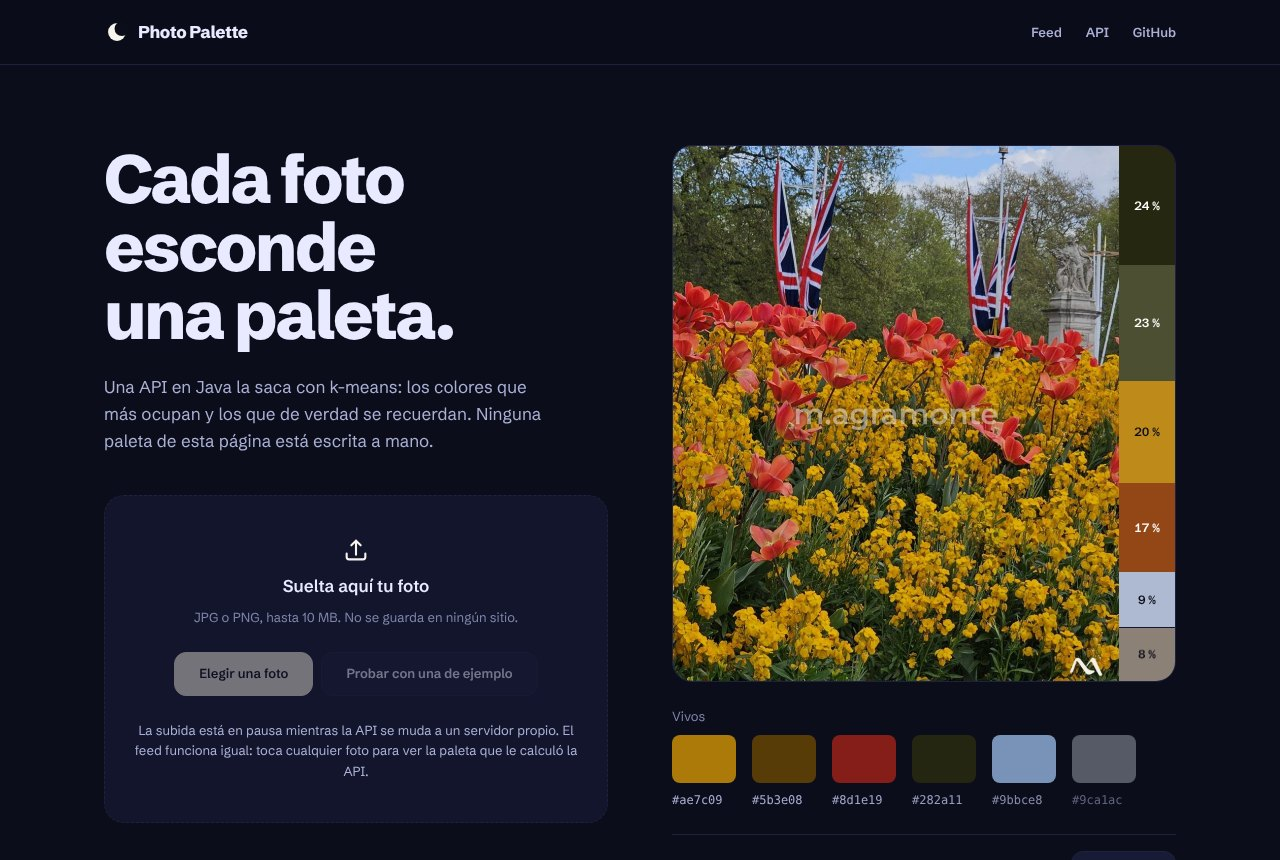
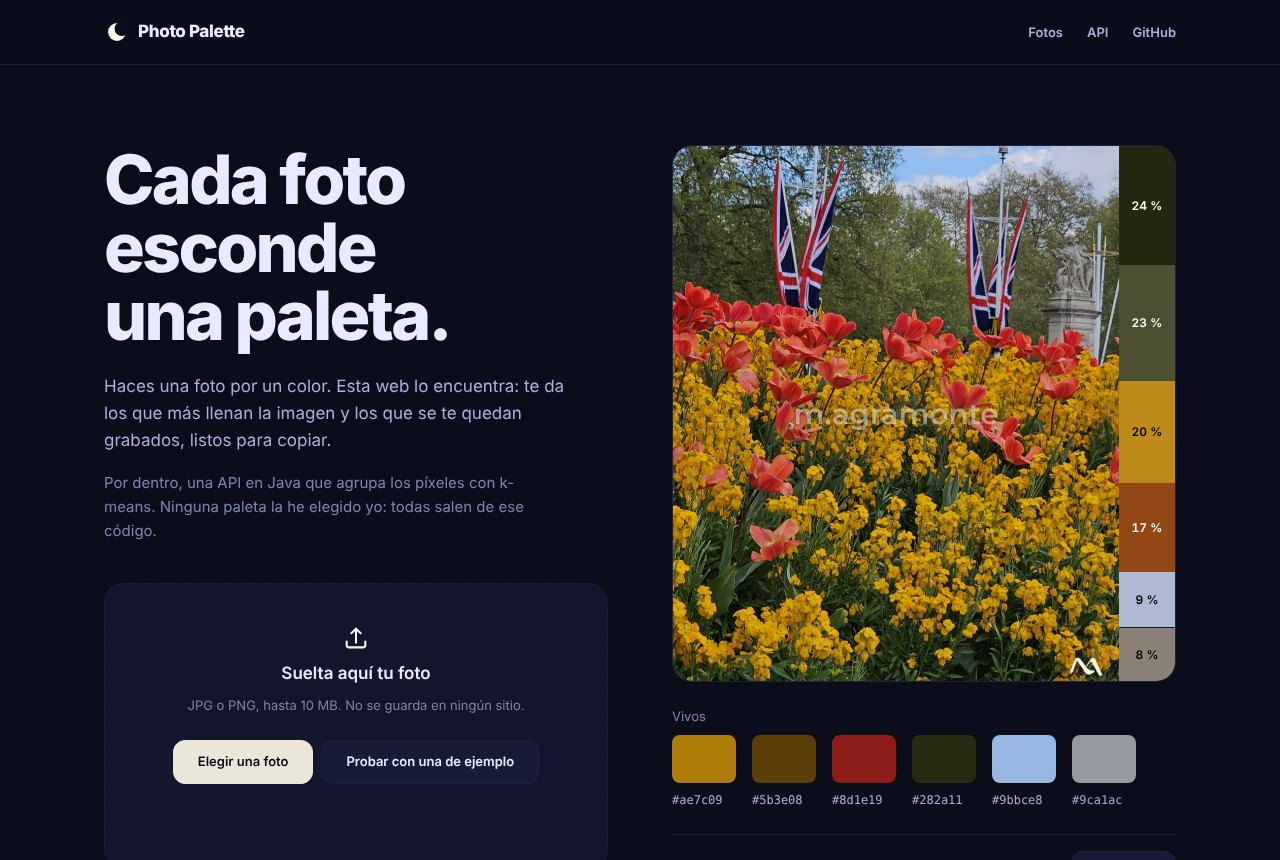
Capturas nuevas y README al día con los textos de la web
Las seis capturas de docs/capturas enseñaban la web de antes: el texto
técnico en la portada, la subida en pausa y «El feed». Las he rehecho con
la web de esta rama y la API simulada en el navegador, como en las E2E.

Los dos README cuentan en «Qué hace» que la web se entiende sin programar
y lo del botón del móvil. En CAPTURAS.md fuera la nota de la subida en
pausa, que ya no es verdad, y los textos alternativos dicen lo que se ve
ahora.

diff --git a/docs/CAPTURAS.md b/docs/CAPTURAS.md
@@ -1,7 +1,9 @@
 # Capturas
 
 La web pantalla a pantalla, para quien prefiera no pulsar nada. Todas son de la aplicación
-real, con las paletas que calcula la API sobre las fotos del feed.
+real, con las paletas que calcula la API sobre las fotos del feed. Se hicieron con la web del
+repositorio y la API simulada dentro del navegador, igual que en las pruebas E2E: sus
+respuestas salen de `paletas.json`, que genera el mismo código Java.
 
 ← [Volver al README](../README.md)
 
@@ -9,12 +11,14 @@ real, con las paletas que calcula la API sobre las fotos del feed.
 
 ## La portada
 
-El titular, la zona para soltar una foto y una foto del feed con sus dos paletas a la vez. La
+El titular y, debajo, dos frases: una para cualquiera, que dice qué hace la web, y otra más
+pequeña para quien programa. Después, la zona para soltar una foto y una foto del feed con sus
+dos paletas a la vez. La
 regla pegada a la foto mide lo que ocupa cada color «más presente»; debajo van los «vivos».
 Verlas juntas es la idea del proyecto: la paleta fiel no es la paleta útil. «Otra foto» pasa
 a la siguiente.
 
-![Portada de Photo Palette: sobre fondo azul noche, el titular «Cada foto esconde una paleta.» y la zona para soltar una foto, con el aviso de que la subida está en pausa. A la derecha, la foto de los tulipanes con una regla de color pegada a su borde, donde el verde casi negro de las hojas ocupa el 24 % y el ocre de las flores el 20 %, y debajo sus seis colores vivos con su HEX](capturas/01-portada.jpg)
+![Portada de Photo Palette: sobre fondo azul noche, el titular «Cada foto esconde una paleta.», la frase «Haces una foto por un color. Esta web lo encuentra…», otra más pequeña sobre la API en Java y la zona para soltar una foto con sus dos botones. A la derecha, la foto de los tulipanes con una regla de color pegada a su borde, donde el verde casi negro de las hojas ocupa el 24 % y el ocre de las flores el 20 %, y debajo sus seis colores vivos con su HEX](capturas/01-portada.jpg)
 
 ---
 
@@ -51,13 +55,10 @@ el contraste calculado para que se vea que cumple WCAG AA.
 ## La API, en vivo
 
 «Probar con una de ejemplo» coge una foto del feed y se la manda a la API. El panel avisa de
-que esa paleta se acaba de calcular y no viene de `paletas.json`, y sale idéntica a la del
-feed: el k-means es determinista.
+que esa paleta se acaba de calcular, y explica por qué sale idéntica a la guardada: el
+k-means es determinista.
 
-Esta captura es de cuando la API estaba publicada en Render, antes de que las fotos llevaran la
-firma. La subida está en pausa hasta que la API vuelva a estar en línea en un servidor propio.
-
-![Panel de detalle con el aviso «Calculada ahora mismo por la API, no leída de paletas.json» sobre las seis muestras del ala desde la ventanilla en modo más presentes y su bloque :root](capturas/05-api-en-vivo.jpg)
+![Panel de detalle con el aviso «Calculada ahora mismo, en directo. Sale igual que la guardada porque el mismo cálculo siempre da el mismo resultado» sobre las seis muestras de los tulipanes y banderas en modo más presentes y su bloque :root](capturas/05-api-en-vivo.jpg)
 
 ---
 
@@ -66,4 +67,4 @@ firma. La subida está en pausa hasta que la API vuelva a estar en línea en un 
 El feed pasa a una columna, el interruptor se coloca bajo el título y las tarjetas mantienen
 su recorte 4:5.
 
-![La web en un móvil: el título «El feed», el interruptor entre «Más presentes» y «Vivos» y la tarjeta de los tulipanes a todo el ancho con sus seis muestras](capturas/06-movil.jpg)
+![La web en un móvil: el título «Mis fotos», el resumen que invita a tocar una foto, el interruptor entre «Más presentes» y «Vivos» y la tarjeta de los tulipanes a todo el ancho con sus seis muestras](capturas/06-movil.jpg)

diff --git a/README.en.md b/README.en.md
@@ -11,7 +11,7 @@ colour libraries, and the photo is analysed in memory without being stored anywh
 
 [![tests](https://github.com/maragramonte/photo-palette/actions/workflows/tests.yml/badge.svg)](https://github.com/maragramonte/photo-palette/actions/workflows/tests.yml)
 
-![Photo Palette home page: on a night-blue background, the headline "Every photo hides a palette." and the area to drop a photo. On the right, the tulips photo with a colour ruler along its edge, where the almost black green of the leaves covers 24 % and the ochre of the flowers 20 %, and below it its six vivid colours with their HEX](docs/capturas/01-portada.jpg)
+![Photo Palette home page: on a night-blue background, the headline "Every photo hides a palette.", a sentence anyone can follow ("You take a photo for a colour. This website finds it…"), a smaller one about the Java API, and the area to drop a photo. On the right, the tulips photo with a colour ruler along its edge, where the almost black green of the leaves covers 24 % and the ochre of the flowers 20 %, and below it its six vivid colours with their HEX](docs/capturas/01-portada.jpg)
 
 > The website, the code and the rest of the documentation are in Spanish. This page is the
 > same README, translated.
@@ -73,6 +73,9 @@ screen by screen.
   WCAG AA.
 - **Upload your photo** by dragging it in or with the button, with its loading, error, API
   unavailable and retry states.
+- **Copy for people who don't code.** The website says what you can do in everyday words, and
+  the technical part goes below, in smaller type. On mobile, «Prueba con tu foto» (try it with
+  your photo) takes you straight to the upload box, which sits below the first screen there.
 - **Probar con una de ejemplo** (try an example) for anyone who arrives without a photo at
   hand: it takes one from the feed and sends it to the live API. The palette that comes back is
   the same one as in `paletas.json`, which also shows that the k-means is deterministic and that

diff --git a/README.md b/README.md
@@ -11,7 +11,7 @@ foto se analiza en memoria sin guardarse en ningún sitio.
 
 [![tests](https://github.com/maragramonte/photo-palette/actions/workflows/tests.yml/badge.svg)](https://github.com/maragramonte/photo-palette/actions/workflows/tests.yml)
 
-![Portada de Photo Palette: sobre fondo azul noche, el titular «Cada foto esconde una paleta.» y la zona para soltar una foto. A la derecha, la foto de los tulipanes con una regla de color pegada a su borde, donde el verde casi negro de las hojas ocupa el 24 % y el ocre de las flores el 20 %, y debajo sus seis colores vivos con su HEX](docs/capturas/01-portada.jpg)
+![Portada de Photo Palette: sobre fondo azul noche, el titular «Cada foto esconde una paleta.», una frase para cualquiera («Haces una foto por un color. Esta web lo encuentra…»), otra más pequeña sobre la API en Java y la zona para soltar una foto. A la derecha, la foto de los tulipanes con una regla de color pegada a su borde, donde el verde casi negro de las hojas ocupa el 24 % y el ocre de las flores el 20 %, y debajo sus seis colores vivos con su HEX](docs/capturas/01-portada.jpg)
 
 ---
 
@@ -69,6 +69,9 @@ pantalla.
   WCAG AA.
 - **Subir tu foto** arrastrándola o desde el botón, con sus estados de cargando, error, API
   no disponible y reintentar.
+- **Textos para quien no programa.** La web dice qué puedes hacer con palabras de todos los
+  días, y lo técnico va debajo, más pequeño. En el móvil, «Prueba con tu foto» te lleva
+  directa a la subida, que allí queda fuera del primer pantallazo.
 - **Probar con una de ejemplo** para quien llega sin foto a mano: coge una del feed y la
   manda a la API en vivo. Sale la misma paleta que en `paletas.json`, lo que enseña de paso
   que el k-means es determinista y que el feed no miente.
